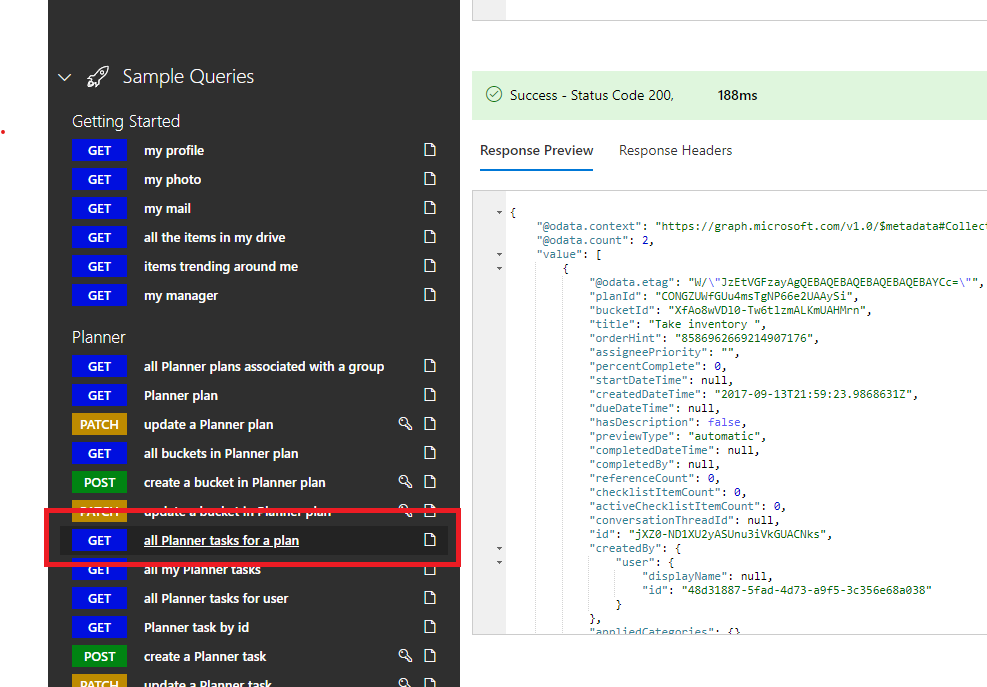
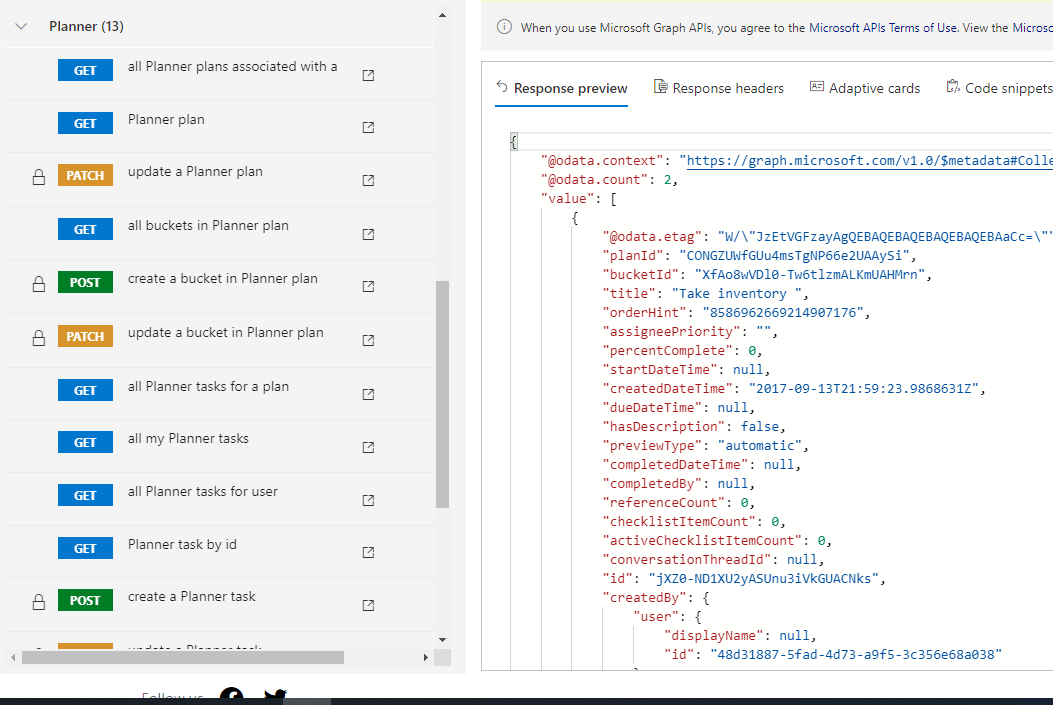
update planner graph pics

diff --git a/Module2.md b/Module2.md
@@ -14,11 +14,7 @@ First we will have to generate some data from Microsft Graph and for this we wil
 
     No need to log in or enter credentials. We will use stock sample data for our development. 
 
-1. Click on `show more samples`: 
-
-    ![Show More Samples](Assets/showmoresamples.png)
-
-1. Select the `Planner (13)` option: 
+1. In the left hand panel, select the "Planner" samples: 
 
     ![Planner Samples](Assets/plannersamples.png)
 
